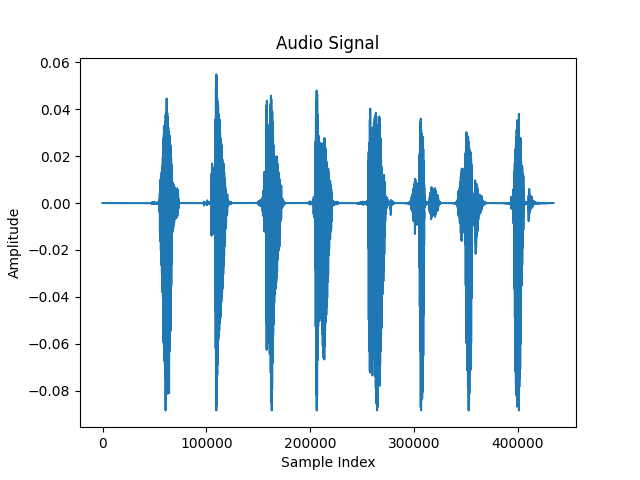
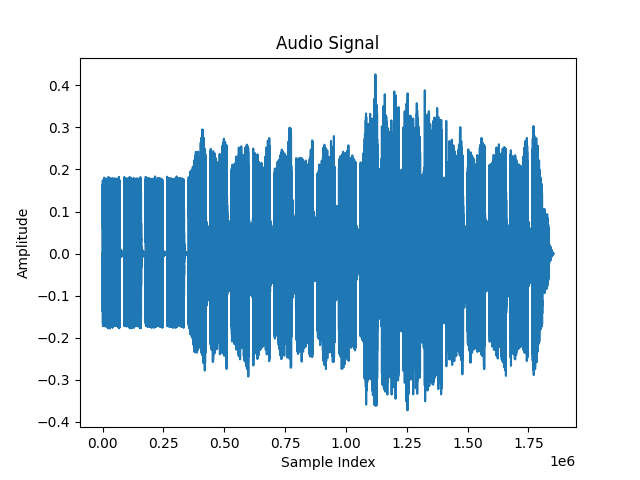
Updating plotting function.

diff --git a/view.py b/view.py
@@ -2,6 +2,10 @@ import tkinter as tk
 from tkinter import ttk
 from tkinter import filedialog
 from tkinter import messagebox
+import matplotlib.pyplot as plt
+from matplotlib.figure import Figure
+from matplotlib.backends.backend_tkagg import FigureCanvasTkAgg
+
 
 
 class View(ttk.Frame):
@@ -22,8 +26,14 @@ class View(ttk.Frame):
         self.rt60_label.grid(row=10, column=1, pady=10)
 
         # Waveform Plot
-        self.waveform_canvas = tk.Canvas(self, width=400, height=200)
+        self.waveform_canvas = tk.Canvas(self, width=400, height=200, )
         self.waveform_canvas.grid(row=15, column=1, pady=10)
+
+        self.fig_waveform = Figure(figsize=(5, 3), dpi=100)
+        self.ax_waveform = self.fig_waveform.add_subplot(111)
+        self.canvas_waveform = FigureCanvasTkAgg(self.fig_waveform, master=self.waveform_canvas)
+        self.canvas_waveform.get_tk_widget().pack(side=tk.TOP, fill=tk.BOTH, expand=1)
+
 
         self.time_label = tk.Label(self, text="")
         self.time_label.grid(row=20, column=1, pady=5)
@@ -70,8 +80,14 @@ class View(ttk.Frame):
         self.plot_additional(additional_data, self.additional_canvas)
 
     def plot_waveform(self, data, canvas):
-        canvas.delete("all")
-        canvas.create_line(0, 100, 400, 100, fill="blue")  # Placeholder line for waveform
+        self.ax_waveform.clear()
+        self.ax_waveform.plot(data)
+        self.ax_waveform.set_title('Audio Signal')
+        self.ax_waveform.set_xlabel('Sample Index')
+        self.ax_waveform.set_ylabel('Amplitude')
+
+        # Redraw the canvas
+        self.canvas_waveform.draw()
 
     def plot_additional(self, data, canvas):
         canvas.delete("all")

diff --git a/controller.py b/controller.py
@@ -15,6 +15,8 @@ class Controller:
         time, waveform = self.model.load_audio()
 
         self.view.display_time_value(time)
+        # self.view.update_rt60_label()
+        self.view.update_waveform_plot(waveform)
 
         #self.view.update_filename_label(os.path.basename(dst))
         #self.view.update_rt60_label(sample_data['rt60'])
